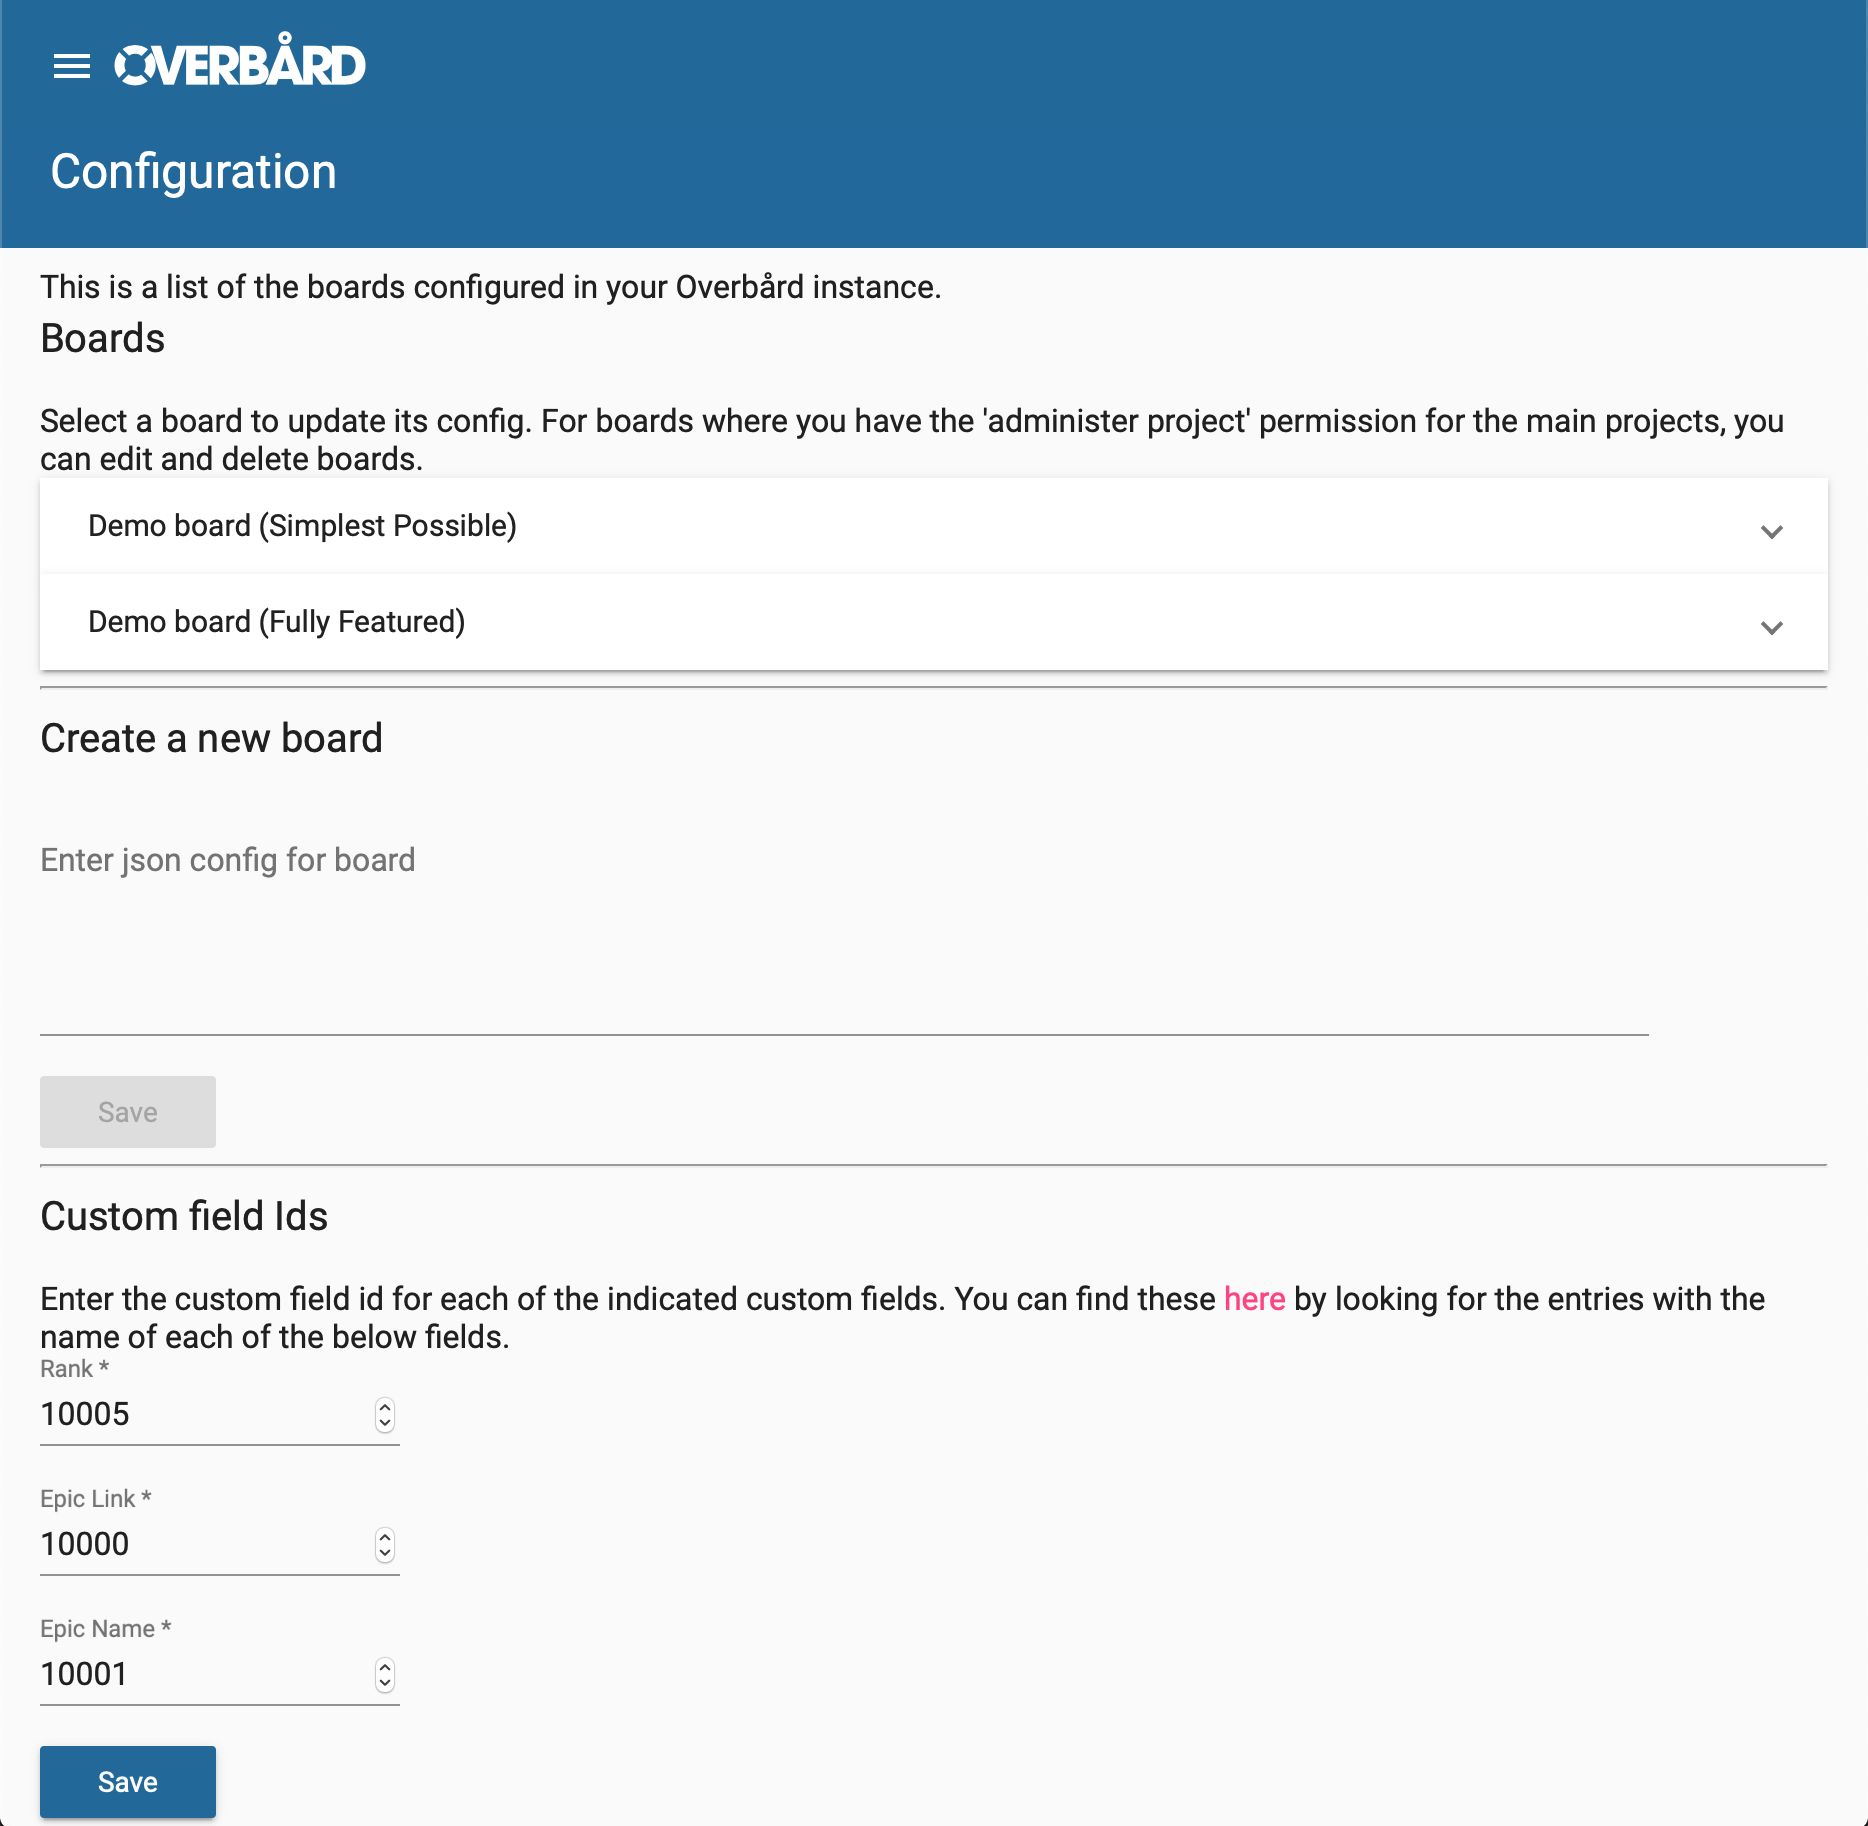
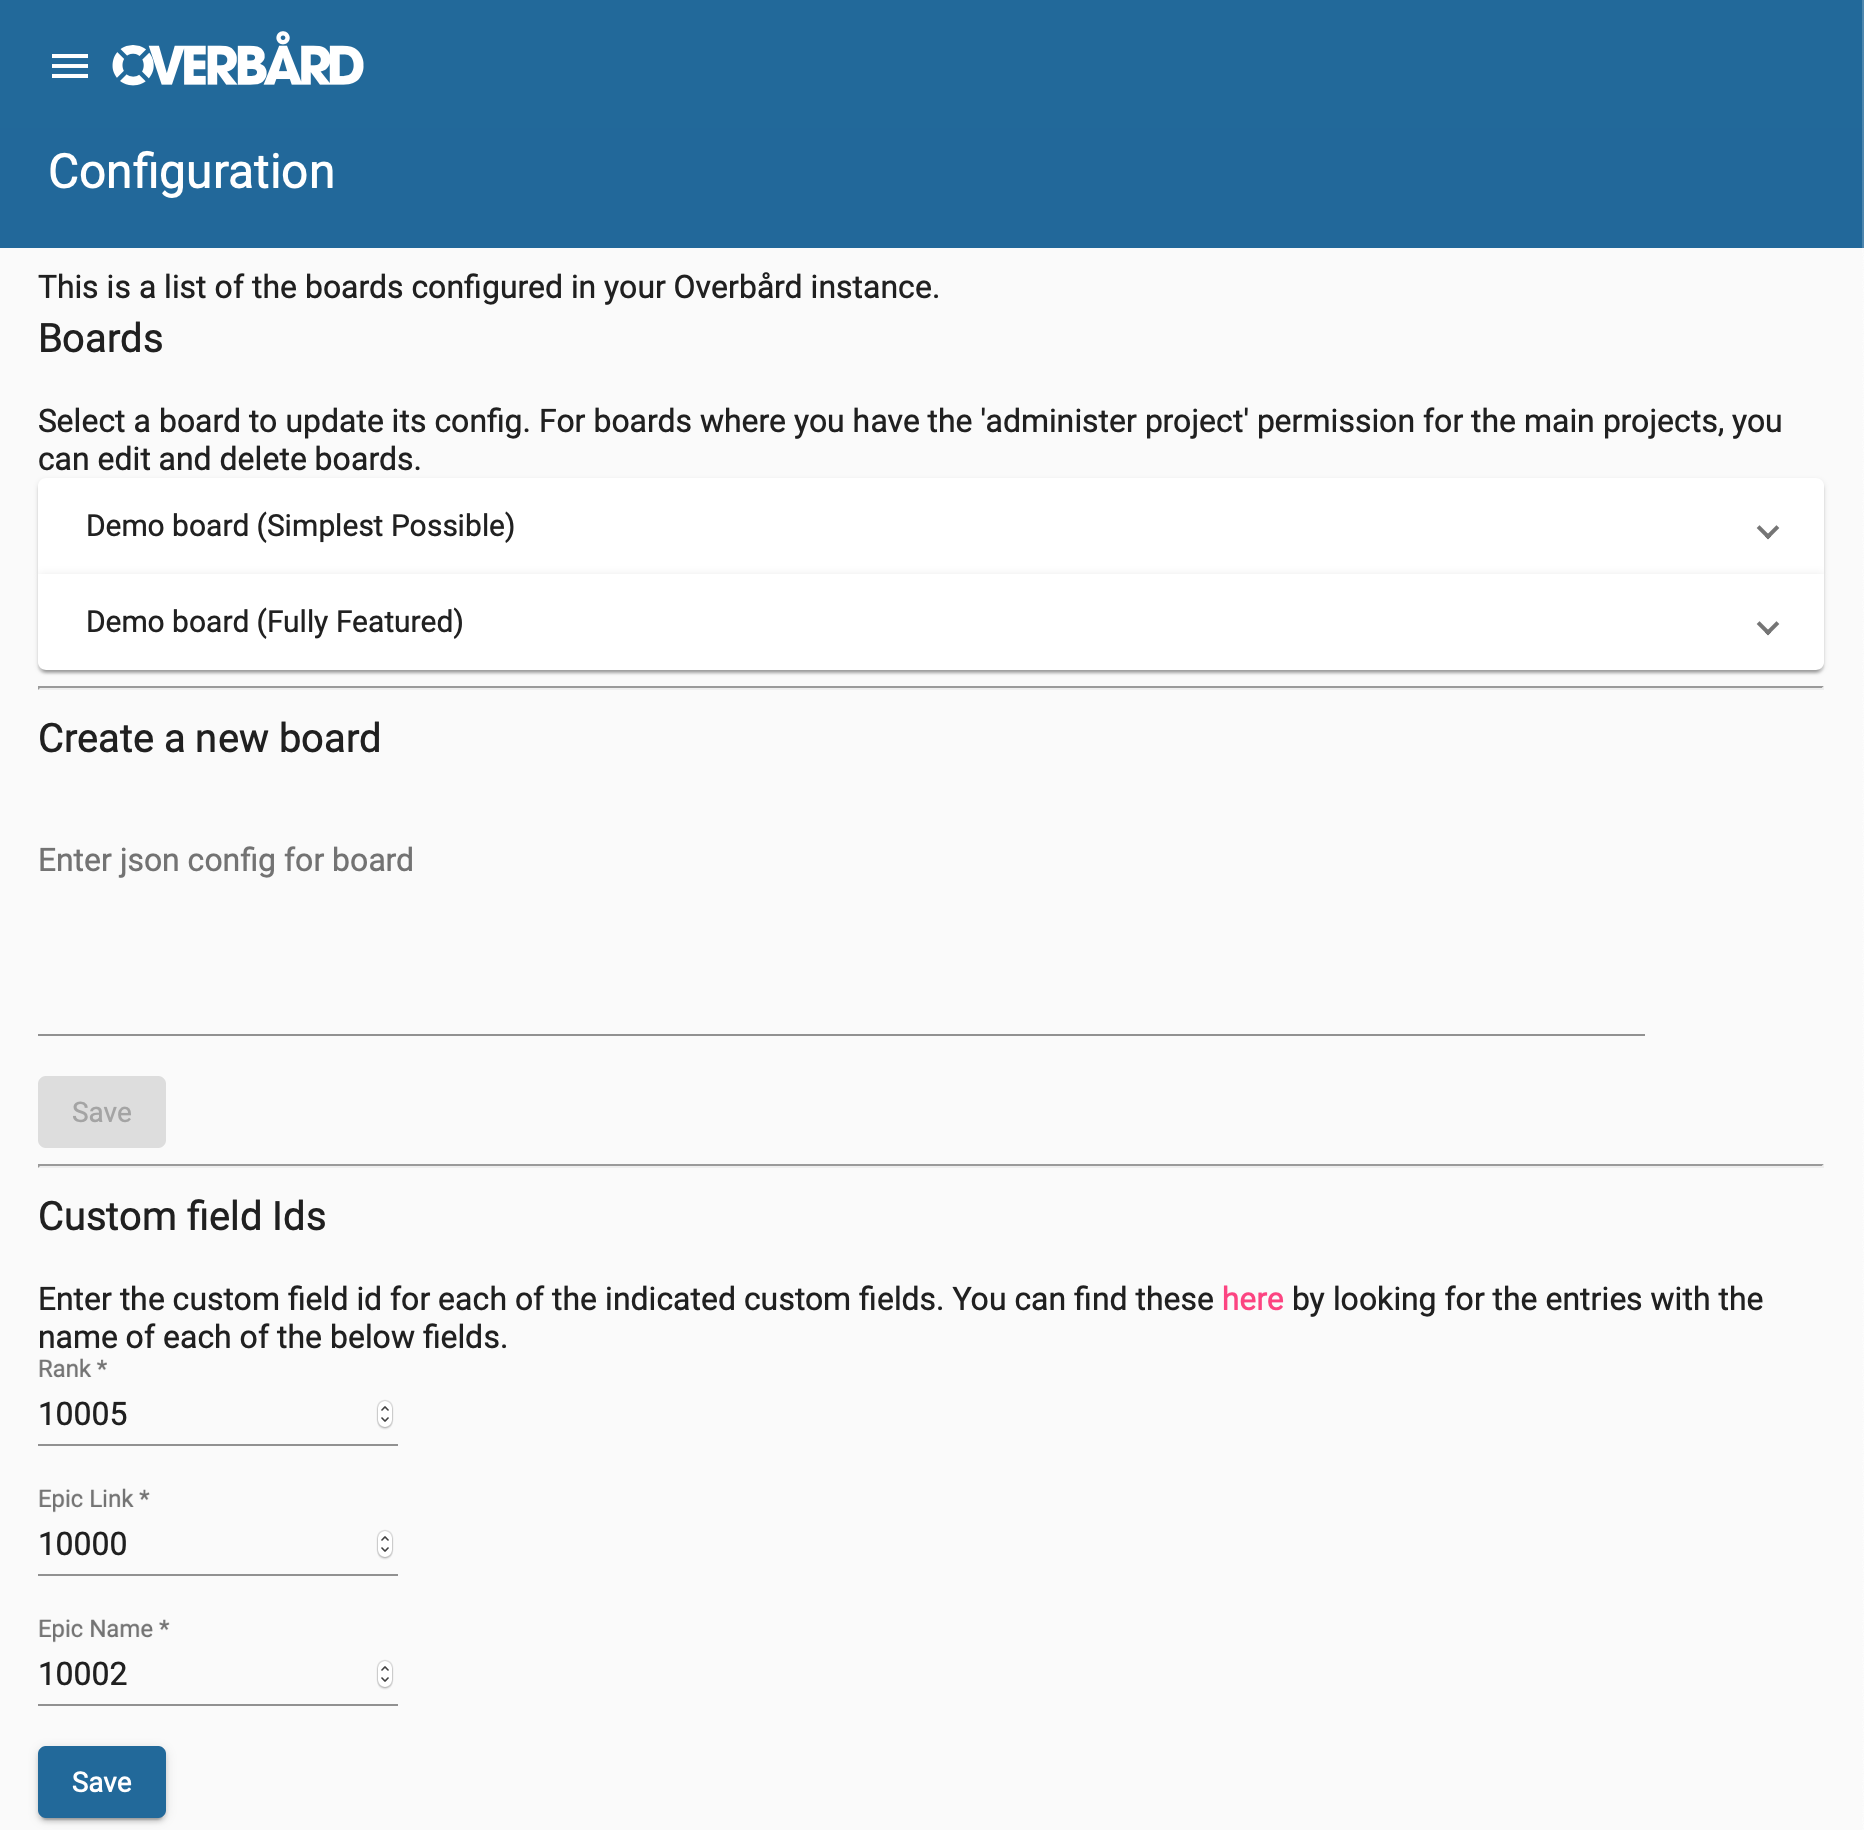
Reflect the correct Epic Name id

diff --git a/docs/admin-guide.md b/docs/admin-guide.md
@@ -64,7 +64,7 @@ Enter the value you found into the `Rank custom field id` field on the bottom of
 
 Then do the same looking for the `Epic Link` and `Epic Name` custom fields. These are important if you want to
 <a href="#enabling-epics">enable epics</a>. On my local instance the `Epic Link` id is `10000` and `Epic Name` is 
-`10001`. 
+`10002`. 
 
 # 4 Setting up a simple board
 The following example discusses how to set up a very basic board, using a project with the standard states
